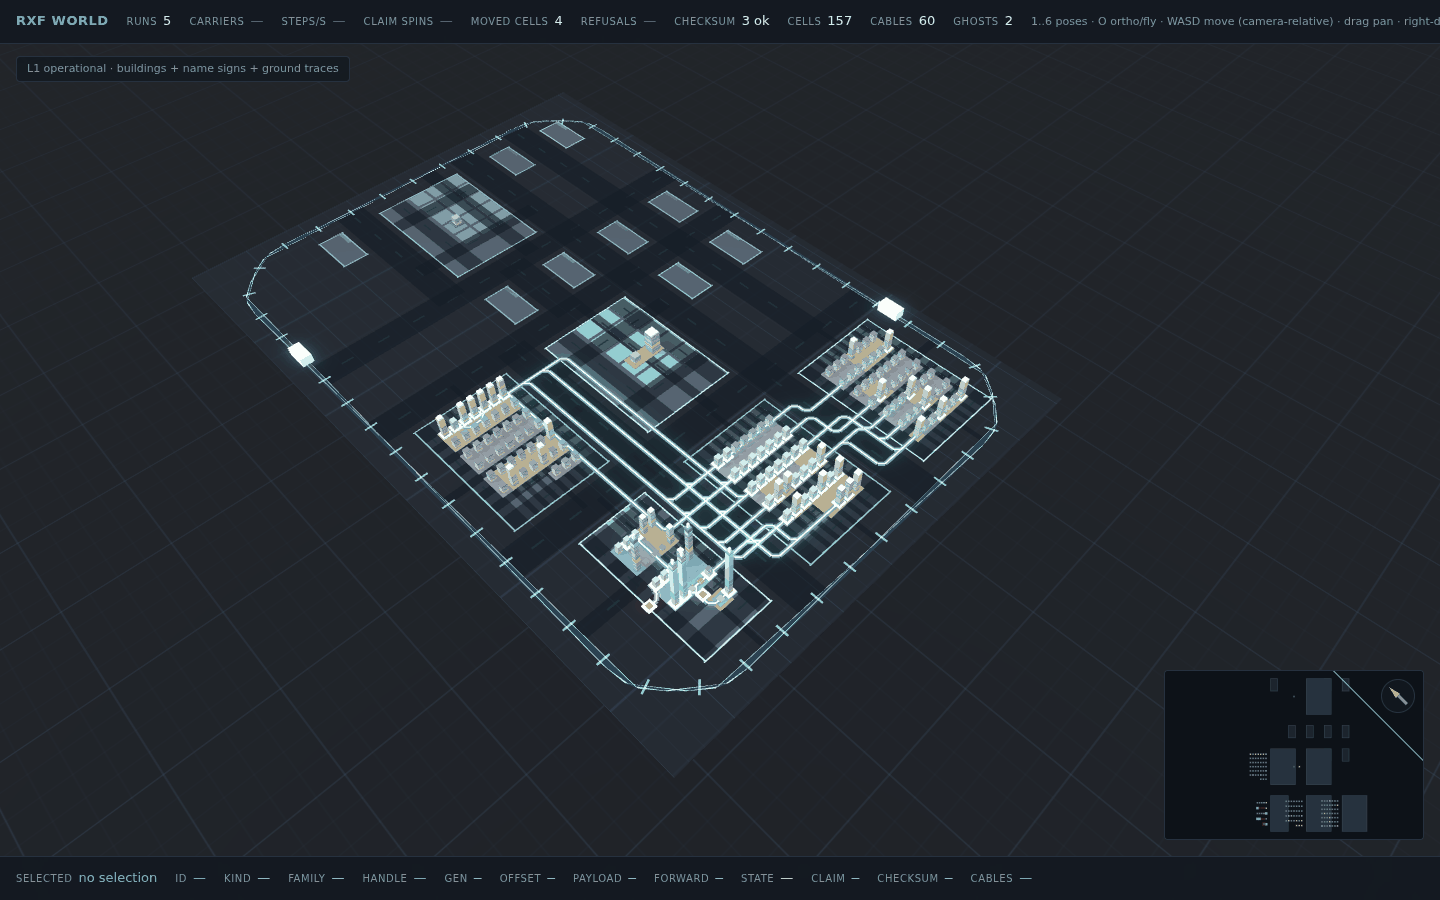
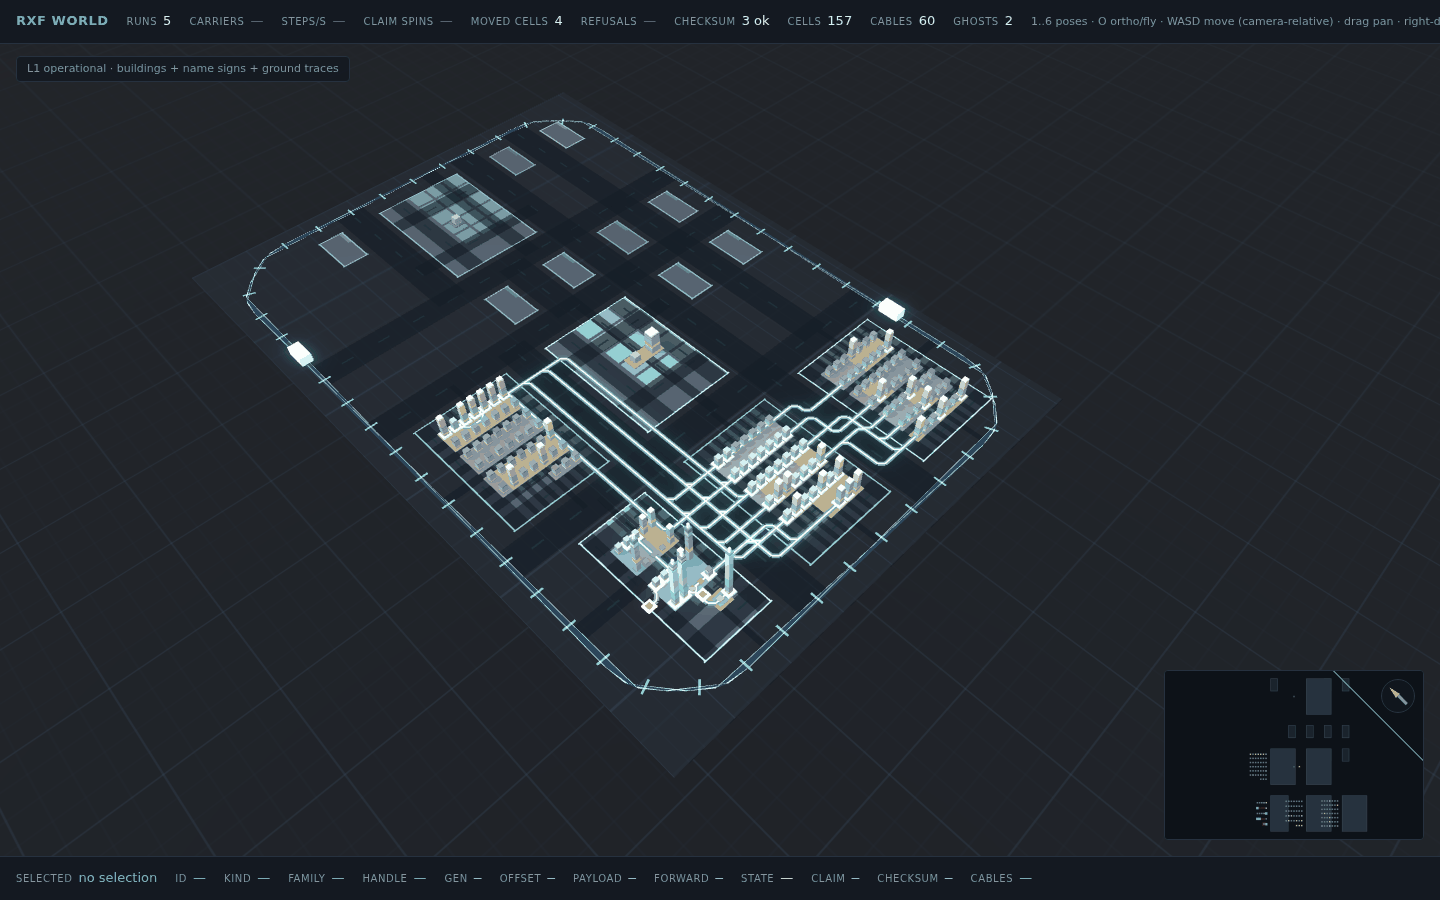
shots: the GTX 1080 draws them now, and the probe says so
The raster probe only tried ANGLE/GL (needs a window system) and
headful; on a headless box with a working NVIDIA stack it fell to
SwiftShader and the machine's GPU sat idle. The probe gains the
ANGLE/Vulkan candidate (headless, no surface), which is how a
driver-only box renders: the shots report
'chromium-vulkan: ANGLE (NVIDIA, ... NVIDIA GeForce GTX 1080)'.

World and web-ui shots re-captured on the GPU (12 PNGs). The demo
scene pins, poses and quantization are unchanged: only the raster
under them.

diff --git a/src/pymergetic/rxf/world/capture_shots.py b/src/pymergetic/rxf/world/capture_shots.py
@@ -167,6 +167,15 @@ GPU_ARGS = [
     "--ignore-gpu-blocklist",
     "--enable-unsafe-swiftshader",  # in-process fallback allowed; the probe still reports truth
 ]
+VULKAN_ARGS = [
+    "--use-gl=angle",
+    "--use-angle=vulkan",
+    "--enable-features=Vulkan",
+    "--disable-vulkan-surface",  # headless: WebGL on the device, no window system to draw to
+    "--enable-gpu",
+    "--ignore-gpu-blocklist",
+    "--enable-unsafe-swiftshader",
+]
 SWIFTSHADER_ARGS = [
     "--use-gl=angle",
     "--use-angle=swiftshader",
@@ -198,6 +207,7 @@ def _launch_raster(playwright: Any) -> tuple[Any, str]:
     The returned string names the raster that actually draws the shots."""
     candidates = (
         ("chromium-gpu", {"channel": "chromium", "args": GPU_ARGS}),
+        ("chromium-vulkan", {"channel": "chromium", "args": VULKAN_ARGS}),
         ("chromium-gpu-headful", {"channel": "chromium", "headless": False, "args": GPU_ARGS}),
         ("swiftshader", {"args": SWIFTSHADER_ARGS}),
     )
